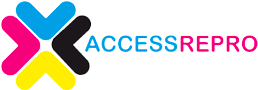
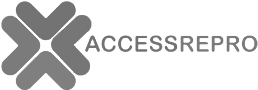
retours footer

Changed region(s): [[0.0, 0.0, 1.0, 1.0]]

diff --git a/site/public/css/footer.css b/site/public/css/footer.css
@@ -1,5 +1,5 @@
 .footer-section {
-  height: 13vw;
+  height: 18vw;
   background-color: #EFEDE8;
   width: 100%;
   text-align: center;
@@ -7,15 +7,15 @@
 
 .footer-section .partenaires {
   display: inline-block;
-  margin-top: 2vw;
+  margin-top: 3vw;
 }
 
-.footer-section .partenaires .saintjacques, .footer-section .partenaires .accessrepro, .footer-section .partenaires .coworkshop {
+.footer-section .partenaires .digital_village, .footer-section .partenaires .supdeco, .footer-section .partenaires .attineos, .footer-section .partenaires .hetic, .footer-section .partenaires .saintjacques, .footer-section .partenaires .accessrepro, .footer-section .partenaires .coworkshop {
   width: 20vw;
 }
 
 @media (max-width: 767px) {
-  .footer-section .partenaires .saintjacques, .footer-section .partenaires .accessrepro, .footer-section .partenaires .coworkshop {
+  .footer-section .partenaires .digital_village, .footer-section .partenaires .supdeco, .footer-section .partenaires .attineos, .footer-section .partenaires .hetic, .footer-section .partenaires .saintjacques, .footer-section .partenaires .accessrepro, .footer-section .partenaires .coworkshop {
     width: 15vw;
   }
 }
@@ -26,7 +26,7 @@
 
 @media (max-width: 767px) {
   .footer-section .partenaires {
-    margin-top: 0;
+    margin: 10px 80px;
   }
 }
 
@@ -38,6 +38,10 @@
   .footer-section .partenaires li {
     margin-top: 10px;
   }
+}
+
+.footer-section .partenaires a {
+  color: #b3b3b3;
 }
 
 .footer-section .liens .facebook, .footer-section .liens .twitter {
@@ -62,6 +66,12 @@
 @media (max-width: 767px) {
   .footer-section .liens .twitter img {
     width: 14px;
+  }
+}
+
+@media (max-width: 767px) {
+  .footer-section {
+    height: 21vw;
   }
 }
 

diff --git a/site/resources/assets/sass/footer.scss b/site/resources/assets/sass/footer.scss
@@ -1,15 +1,15 @@
 @import "sizes";
 
 .footer-section{
-  height: 13vw;
+  height: 18vw;
   background-color: #EFEDE8;
   width: 100%;
   text-align: center;
   .partenaires{
     display: inline-block;
-    margin-top: 2vw;
+    margin-top: 3vw;
 
-    .saintjacques, .accessrepro, .coworkshop{
+    .digital_village, .supdeco, .attineos, .hetic, .saintjacques, .accessrepro, .coworkshop{
       width: 20vw;
 
       @include phone() {
@@ -24,14 +24,19 @@
 
     }
     @include phone() {
-      margin-top: 0;
+      margin: 10px 80px;
     }
     li{
       display: inline-block;
 
       @include phone() {
         margin-top: 10px;
+
       }
+    }
+    
+    a {
+      color: #b3b3b3;
     }
   }
   .liens {
@@ -52,5 +57,9 @@
         width: 14px;
       }
     }
+  }
+
+  @include phone {
+    height: 21vw;
   }
 }

diff --git a/site/resources/views/components/footer.blade.php b/site/resources/views/components/footer.blade.php
@@ -1,8 +1,12 @@
 <footer class="footer-section">
     <ul class="partenaires">
+        <li class="digital_village"><a href="http://digital-village.fr/"><img src="/img/digital_village_footer.png" alt=""></a></li>
+        <li class="supdeco"><a href="http://www.montpellier-bs.com/"><img src="/img/supdeco_footer.png" alt=""></a></li>
+        <li class="attineos"><a href="http://www.attineos.com/"><img src="/img/attineos_footer.png" alt=""></a></li>
         <li class="saintjacques"><a href="http://www.saintjacquesduhautpas.com/">Saint-Jacques du Haut-Pas</a></li>
         <li class="accessrepro"><a href="http://accessrepro.fr/"><img src="/img/accessrepro.png" alt=""></a></li>
         <li class="coworkshop"><a href="http://www.coworkshop.fr/"><img src="/img/coworkshop.png" alt=""></a></li>
+        <li class="hetic"><a href="http://hetic.net/"><img src="/img/hetic.png" alt=""></a></li>
     </ul>
     <ul class="liens">
         <li class="facebook"><a href="https://www.facebook.com/Aprendreenmain/"><img src="/img/facebook.png" alt=""></a></li>

diff --git a/site/resources/views/components/explications.blade.php b/site/resources/views/components/explications.blade.php
@@ -59,7 +59,7 @@
             <div class="right-first">
                     <div class="container-right">
                         <h4 class="title-right-first">Contexte</h4>
-                        <p>En Afrique Subsaharienne plus d’une personne sur trois la population n’a pas accès à l’eau potable.
+                        <p>En Afrique Subsaharienne plus d’une personne sur trois n’a pas accès à l’eau potable.
 <br><br>
                             Pour notre premier projet, nous voulons implanter deux pompes à eau dans une localité au Cameroun, où le besoin est particulièrement préoccupant.
 <br><br>
